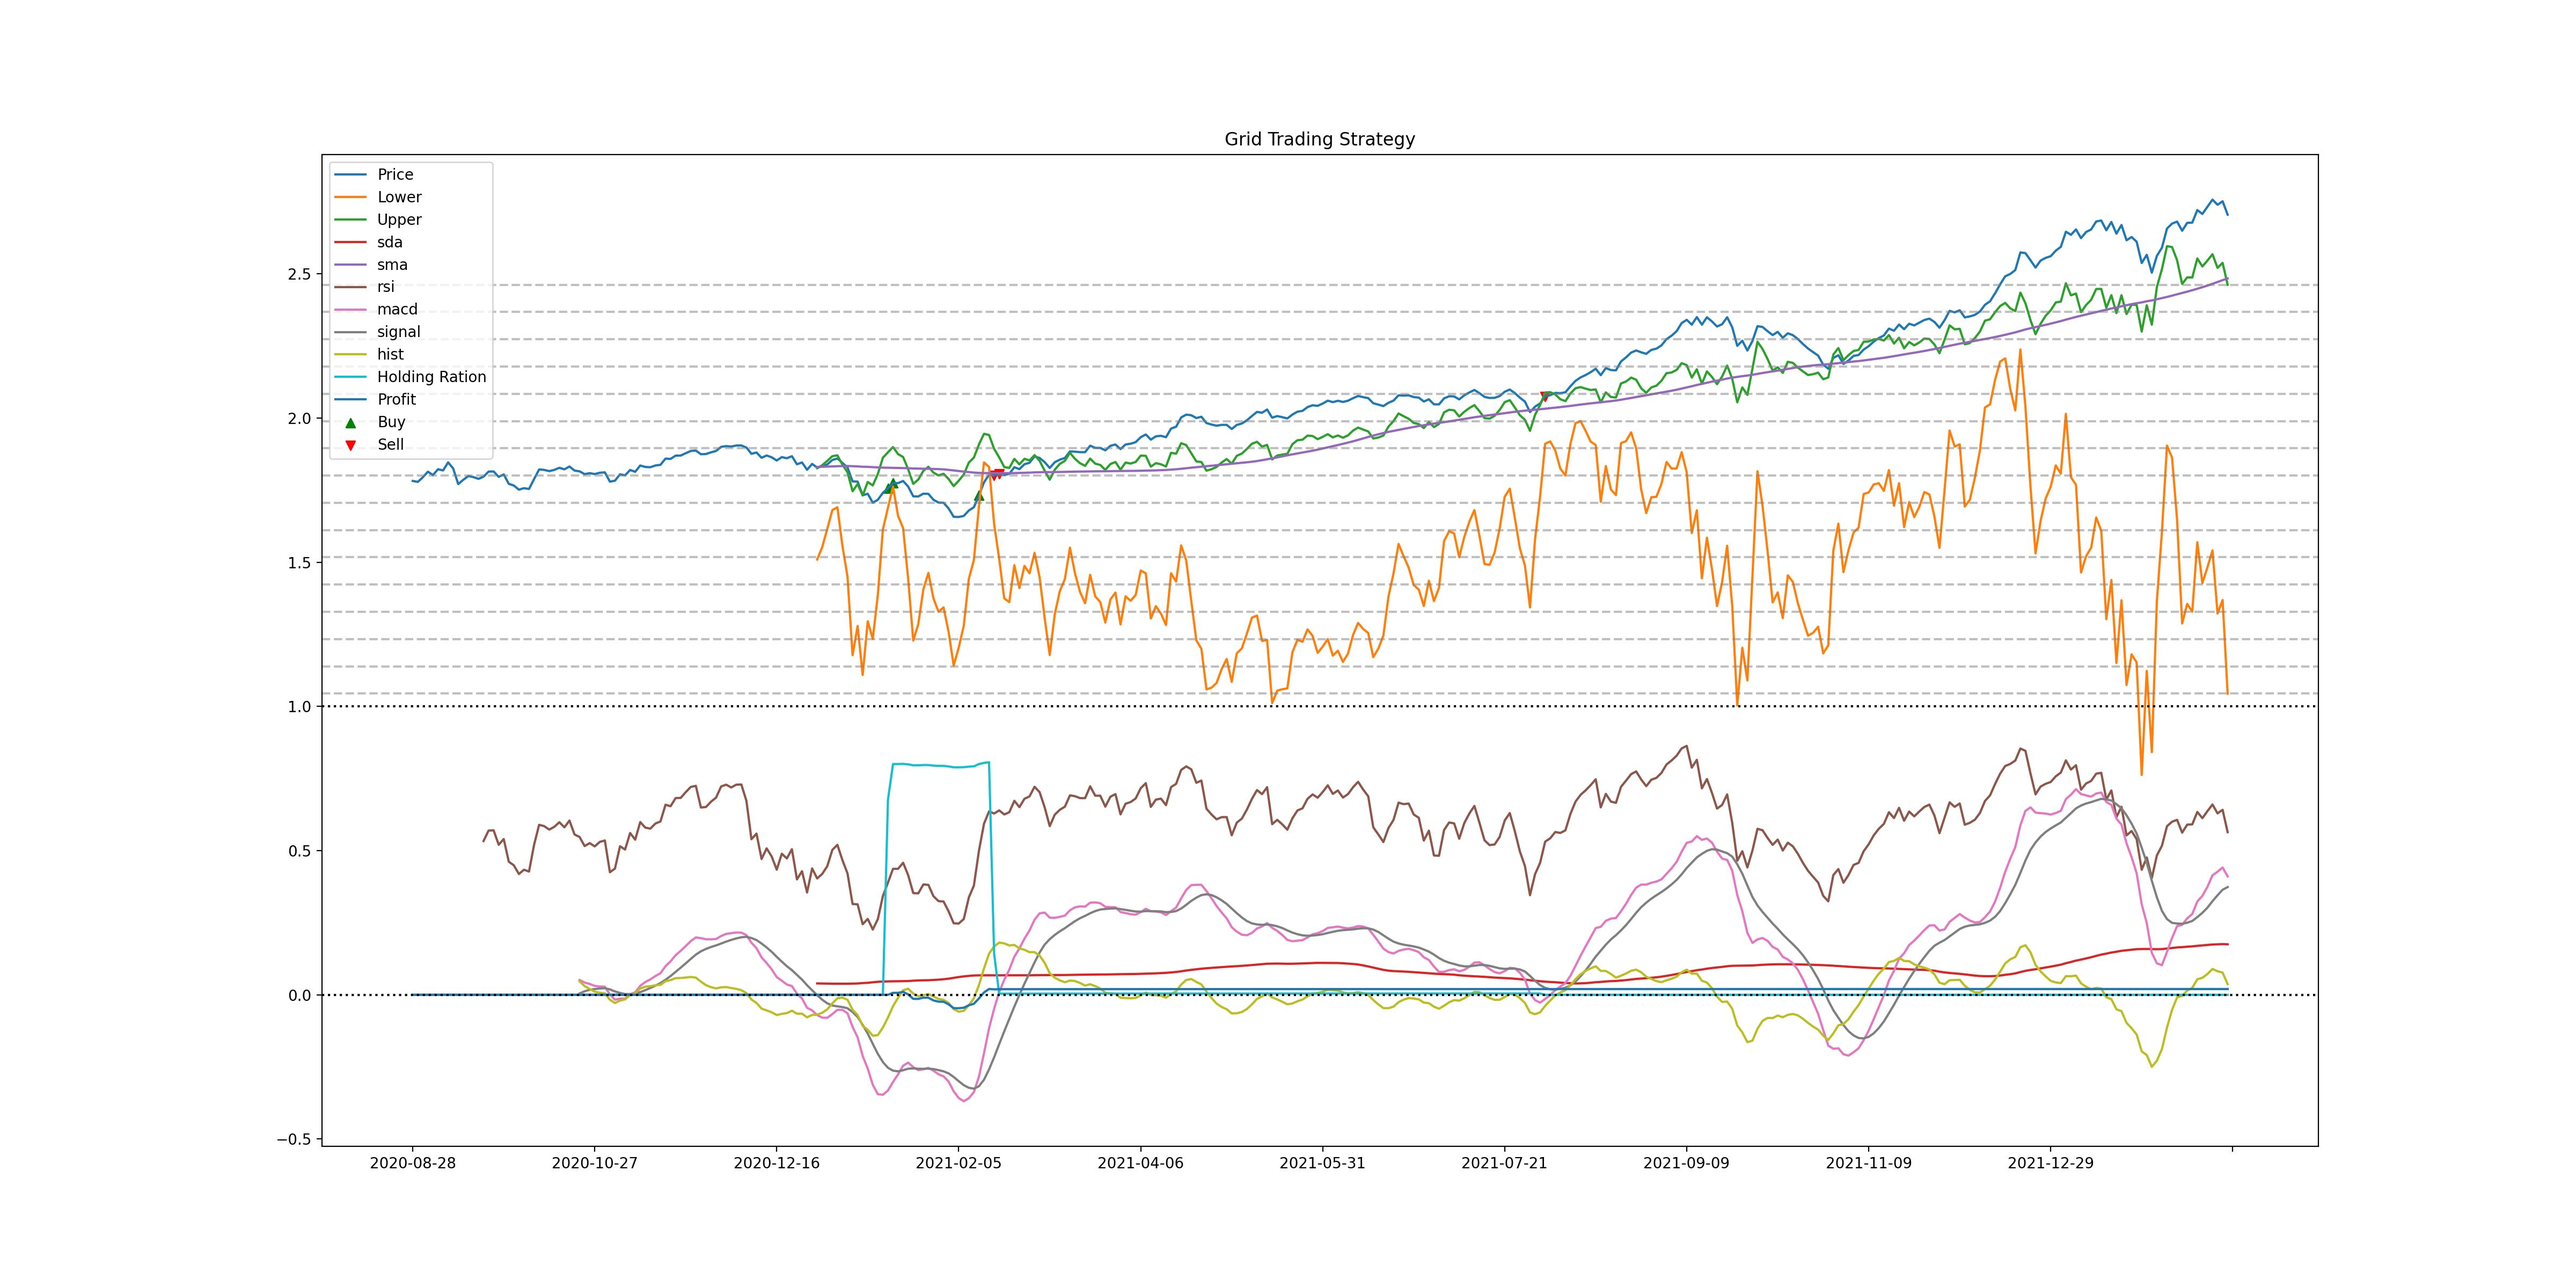
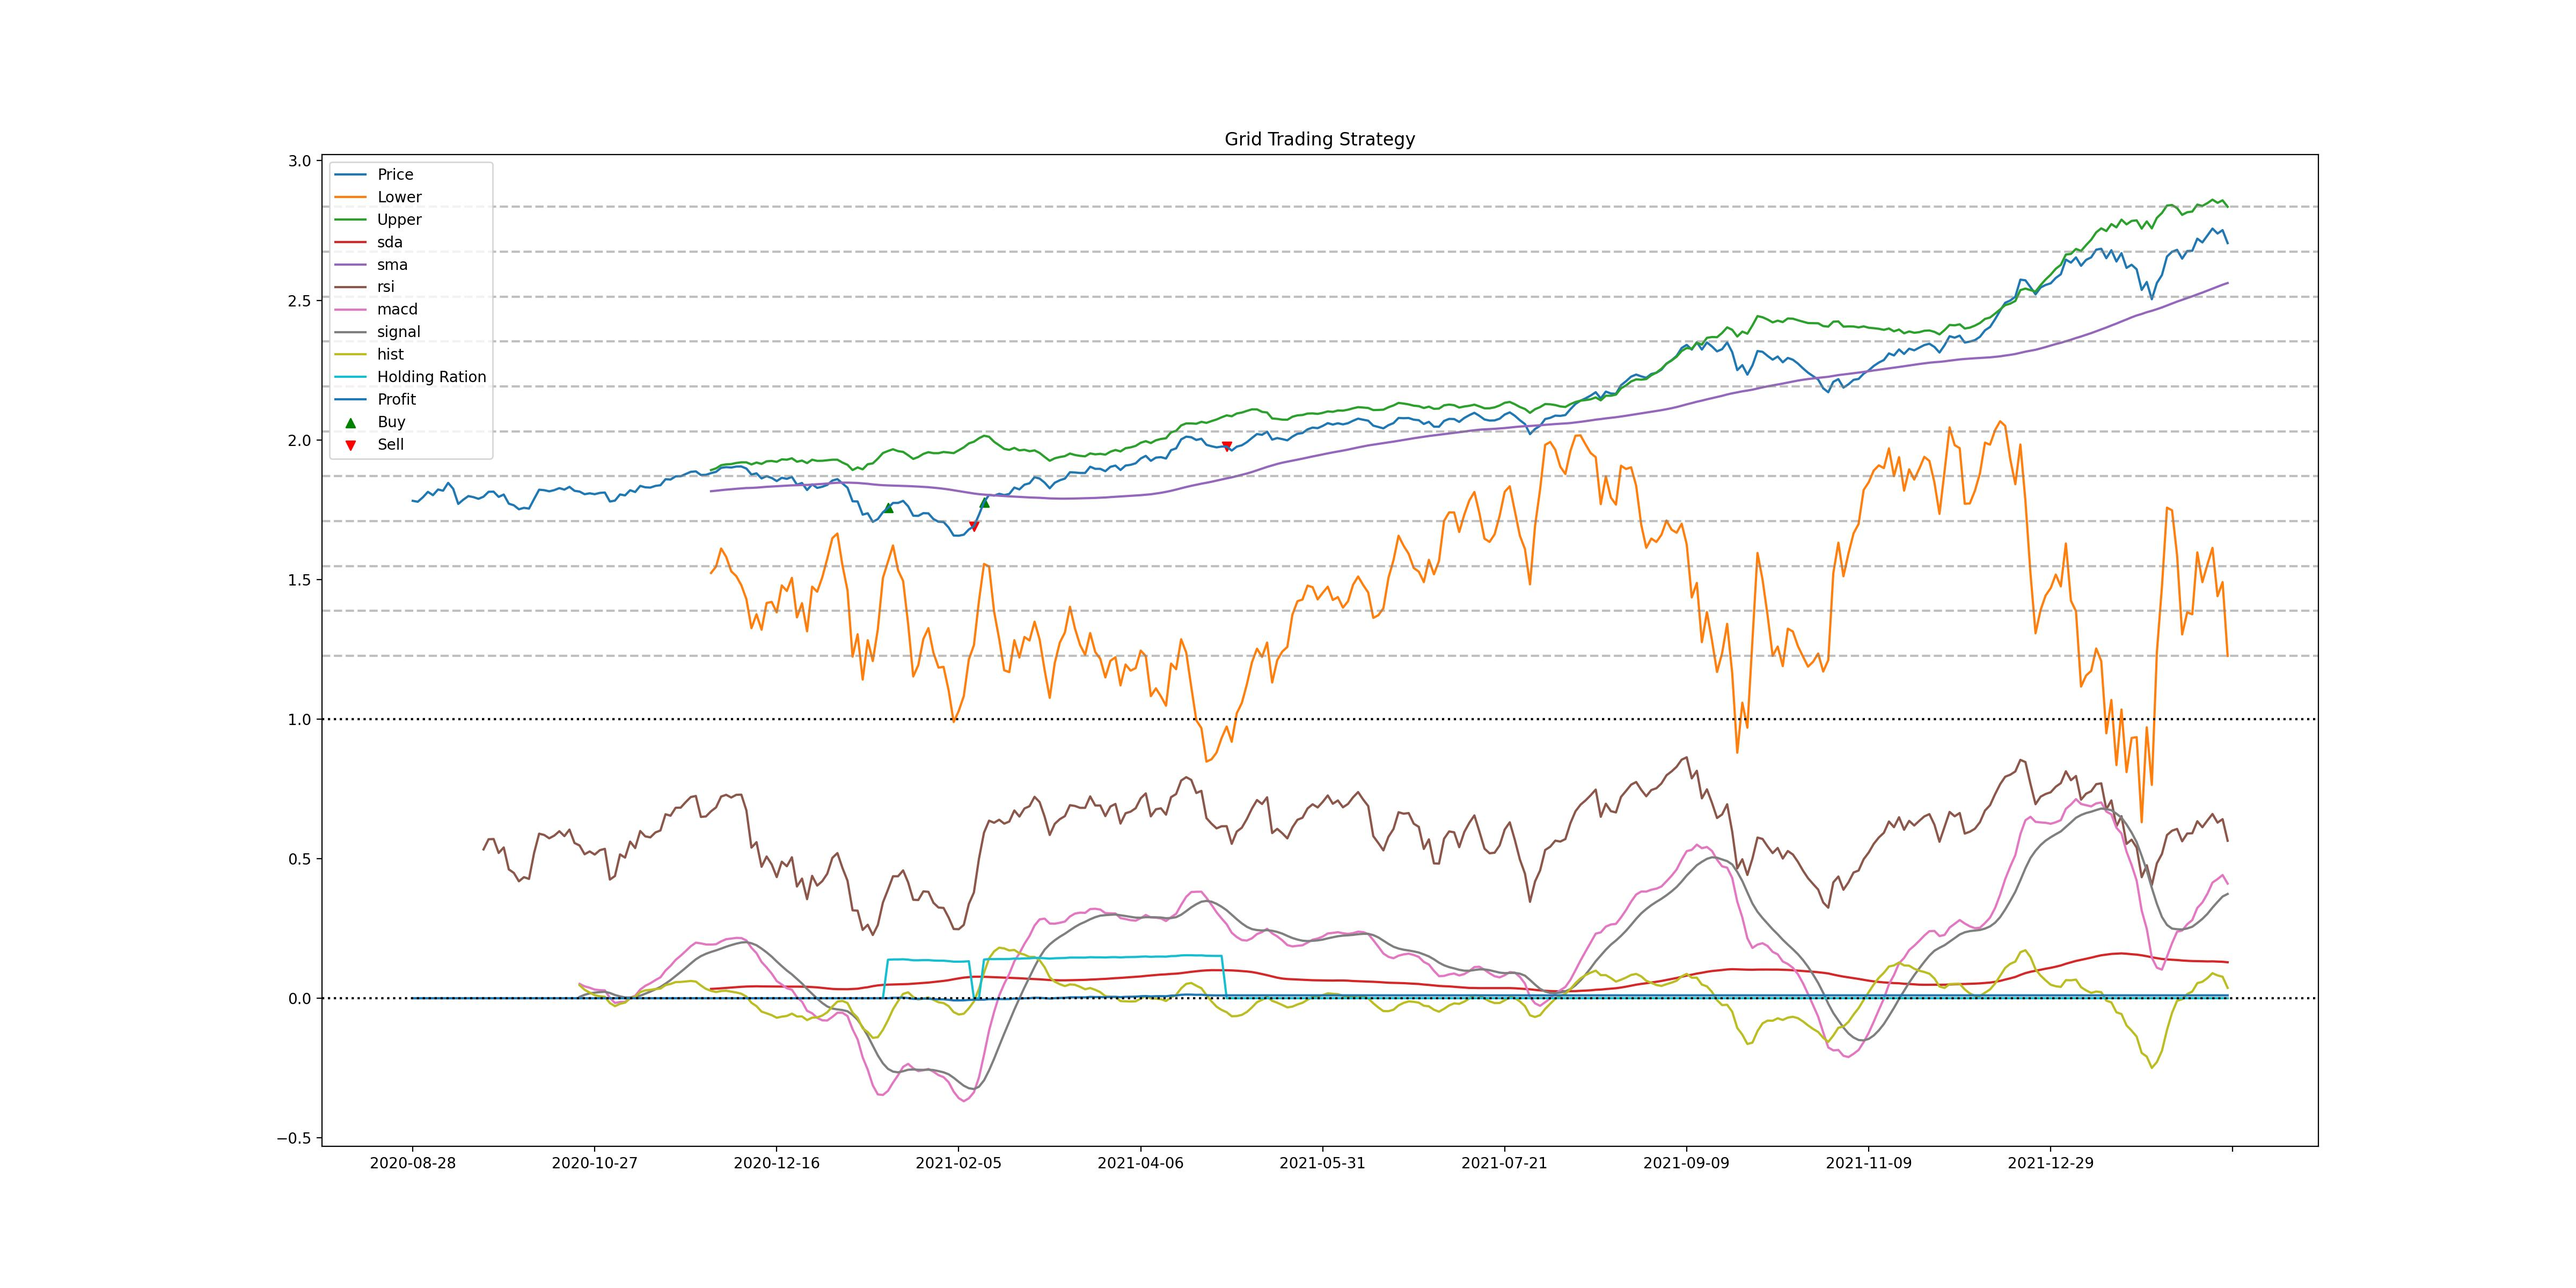
r3-total_avg-num_std-sbc

diff --git a/painter3.py b/painter3.py
@@ -73,7 +73,7 @@ def evalution(spara):
     filter = ['symbol', 'diff', 'profit', 'amper', 'trade_times']
     fres =[{k:d[k] for k in filter} for d in res]
     #print(tabulate(fres, headers="keys", tablefmt="grid"))
-    return stats(res, length) / 100
+    return stats(res, length)
 
 
 def create_objective(eval_func, param_space: Dict[str, Any]):
@@ -133,13 +133,13 @@ if __name__ == '__main__':
         },
         'u_num_std': {
             'type': 'float',
-            'low': 0.2,
+            'low': 2,
             'high': 10,
             'log': True  # 对数尺度采样
         },
         'l_num_std': {
             'type': 'float',
-            'low': 0.2,
+            'low': 2,
             'high': 10,
             'log': True  # 对数尺度采样
         },
@@ -158,33 +158,33 @@ if __name__ == '__main__':
         'max_width': {
             'type': 'float',
             'low': 0.1,
-            'high': 1.0,
+            'high': 0.1,
             'log': True  # 对数尺度采样
         },
         'min_width': {
             'type': 'float',
             'low': 0.1,
-            'high': 1.0,
+            'high': 0.1,
             'log': True  # 对数尺度采样
         },
         'grid_num': {
             'type': 'int',
-            'low': 3,
-            'high': 15
+            'low': 10,
+            'high': 10 
         },
         'window': {
             'type': 'int',
-            'low': 5,
-            'high': 90
+            'low': 60,
+            'high': 60
         },
     }
 
 
 
     # 执行优化
-    study = optuna.create_study(direction='maximize', study_name="r2-total-avg", storage="mysql+pymysql://root:12345678@localhost/foo", load_if_exists=True)
+    study = optuna.create_study(direction='maximize', study_name="r3-total_avg-num_std-sbc", storage="mysql+pymysql://root:12345678@localhost/foo", load_if_exists=True)
     objective = create_objective(evalution, HYPERPARAM_SPACE)
-    study.optimize(objective, n_trials=3000)
+    study.optimize(objective, n_trials=500)
 
     # 输出结果
     print(f"最佳参数: {study.best_params}")

diff --git a/painter4.py b/painter4.py
@@ -92,6 +92,10 @@ if __name__ == '__main__':
     }
     spara = {'max_holding_ration': 0.8, 'order_percent': 0.16906228159872866, 'u_num_std': 0.20060052911467804, 'l_num_std': 6.8878886392475005, 
     'u_sbc5': 1.775046498978191, 'l_sbc5': 7.278347871528191, 'max_width': 0.7997296468545225, 'min_width': 0.15540867980513814, 'grid_num': 15, 'window': 81}
+    # r3-total_avg-num_std-sbc
+    # [I 2025-03-30 18:29:31,058] Trial 93 finished with value: 3.936108227230945 and parameters: 
+    spara = {'max_holding_ration': 0.8, 'order_percent': 0.1377678930628302, 'u_num_std': 2.257133984723932, 'l_num_std': 8.823753694502832, 
+     'u_sbc5': 0.5477913042862884, 'l_sbc5': 6.200430538876671, 'max_width': 0.1, 'min_width': 0.1, 'grid_num': 10, 'window': 60}
 
     # 执行优化
     evalution(spara)
